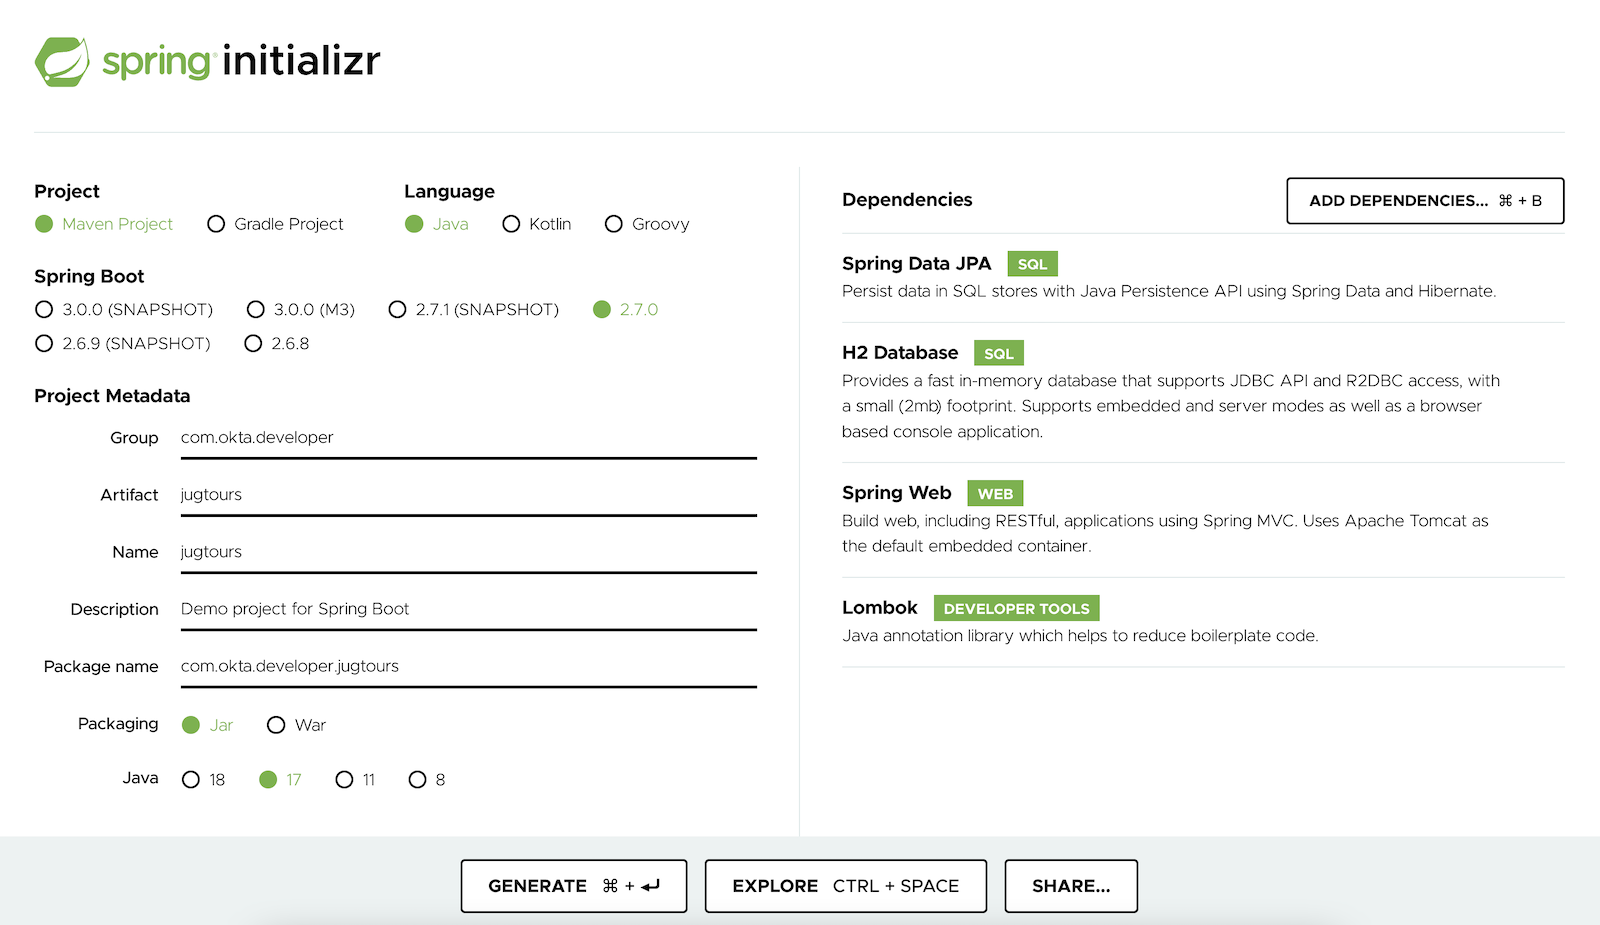
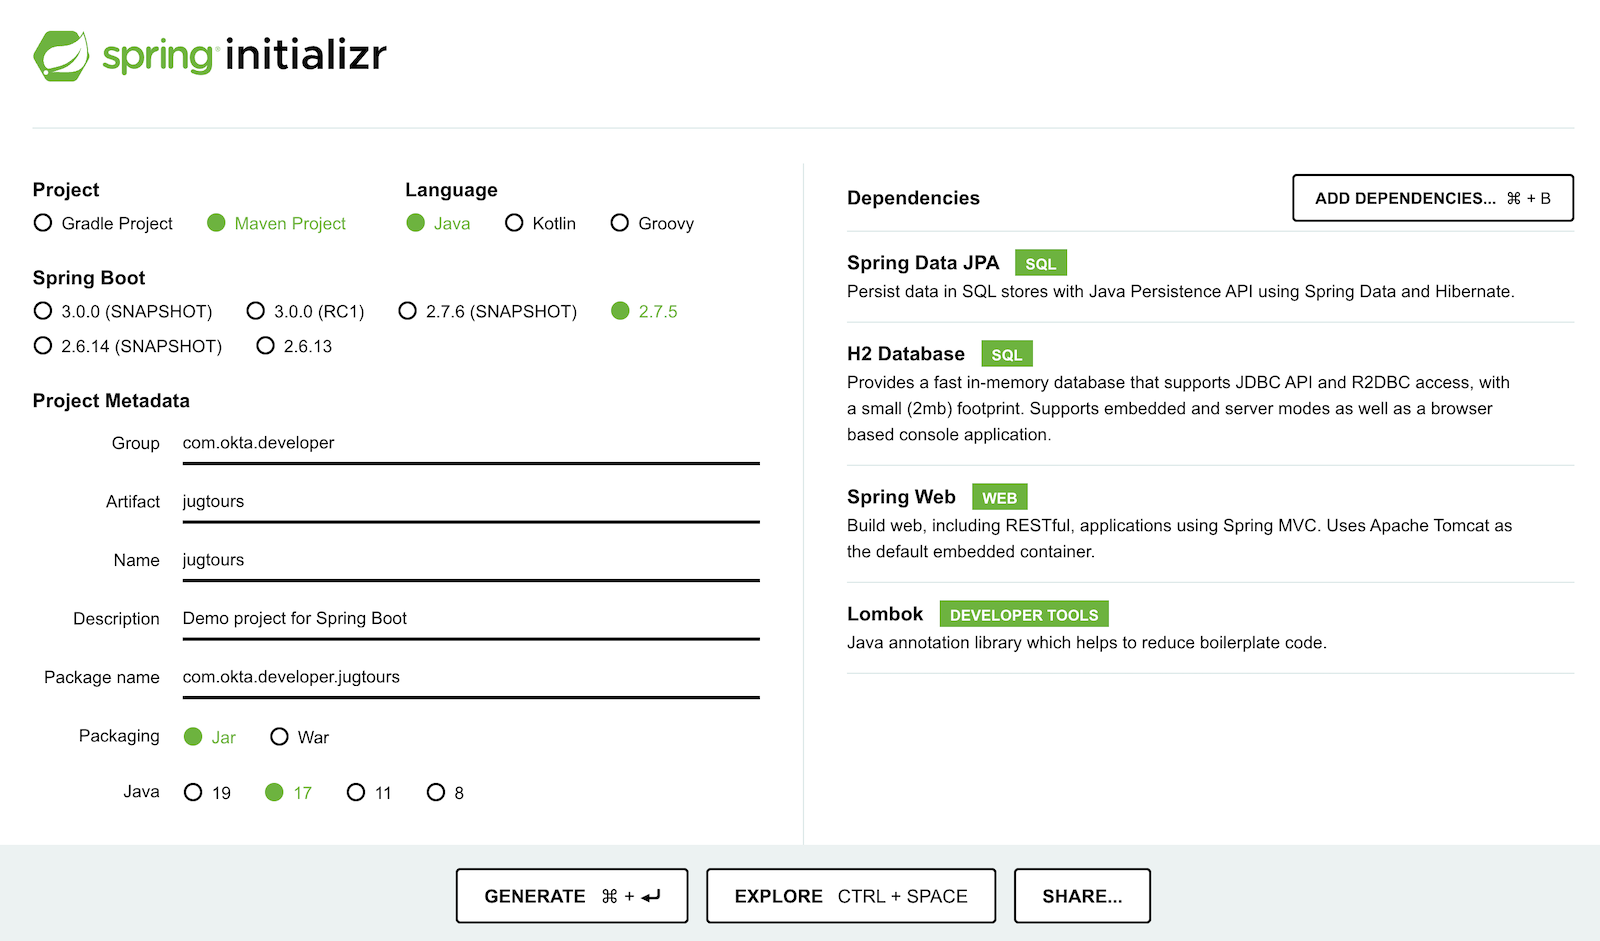
Update to use H2 v2 and Spring Boot 2.7.5

diff --git a/_source/_posts/2022-06-17-simple-crud-react-and-spring-boot.md b/_source/_posts/2022-06-17-simple-crud-react-and-spring-boot.md
@@ -13,6 +13,7 @@ image: blog/featured/okta-react-bottle-headphones.jpg
 type: conversion
 github: https://github.com/oktadev/okta-spring-boot-react-crud-example
 changelog:
+- 2022-11-04: Updated to use H2 version 2 and Spring Boot 2.7.5. You can find the changes to this post in [okta-blog#3001](https://github.com/oktadev/okta-blog/pull/3001) and the example app's changes in [okta-spring-boot-react-crud-example#50](https://github.com/oktadev/okta-spring-boot-react-crud-example/pull/50).
 - 2022-09-16: Updated to Spring Boot 2.7.3, React 18.0.2, and added a section for Auth0. You can find the changes to this article in [okta-blog#1271](https://github.com/oktadev/okta-blog/pull/1271). What's required to switch to Auth0 can be viewed in [the `auth0` branch](https://github.com/oktadev/okta-spring-boot-react-crud-example/compare/auth0).
 ---
 
@@ -132,11 +133,13 @@ import lombok.NoArgsConstructor;
 
 import javax.persistence.Entity;
 import javax.persistence.Id;
+import javax.persistence.Table;
 
 @Data
 @NoArgsConstructor
 @AllArgsConstructor
 @Entity
+@Table(name = "users")
 public class User {
 
     @Id
@@ -206,20 +209,7 @@ class Initializer implements CommandLineRunner {
 
 **TIP:** If your IDE has issues with `Event.builder()`, you need to turn on annotation processing and/or install the Lombok plugin. I had to uninstall/reinstall the Lombok plugin in IntelliJ IDEA to get things to work.
 
-If you start your app (using `./mvnw spring-boot:run`) ...
-
-... it will fail because Spring Boot 2.7 forces H2 v2.0. The H2 2.0 ecosystem doesn't seem like it's quite ready for prime time, so I recommend you downgrade to H2 version `1.4.200` in your `pom.xml`.
-
-```xml
-<dependency>
-  <groupId>com.h2database</groupId>
-  <artifactId>h2</artifactId>
-  <scope>runtime</scope>
-  <version>1.4.200</version>
-</dependency>
-```
-
-Then, `mvn spring-boot:run` should result in something like:
+If you start your app (using `./mvnw spring-boot:run`) it should result in something like:
 
 ```
 Group(id=1, name=Seattle JUG, address=null, city=null, stateOrProvince=null, country=null, postalCode=null, user=null, 
